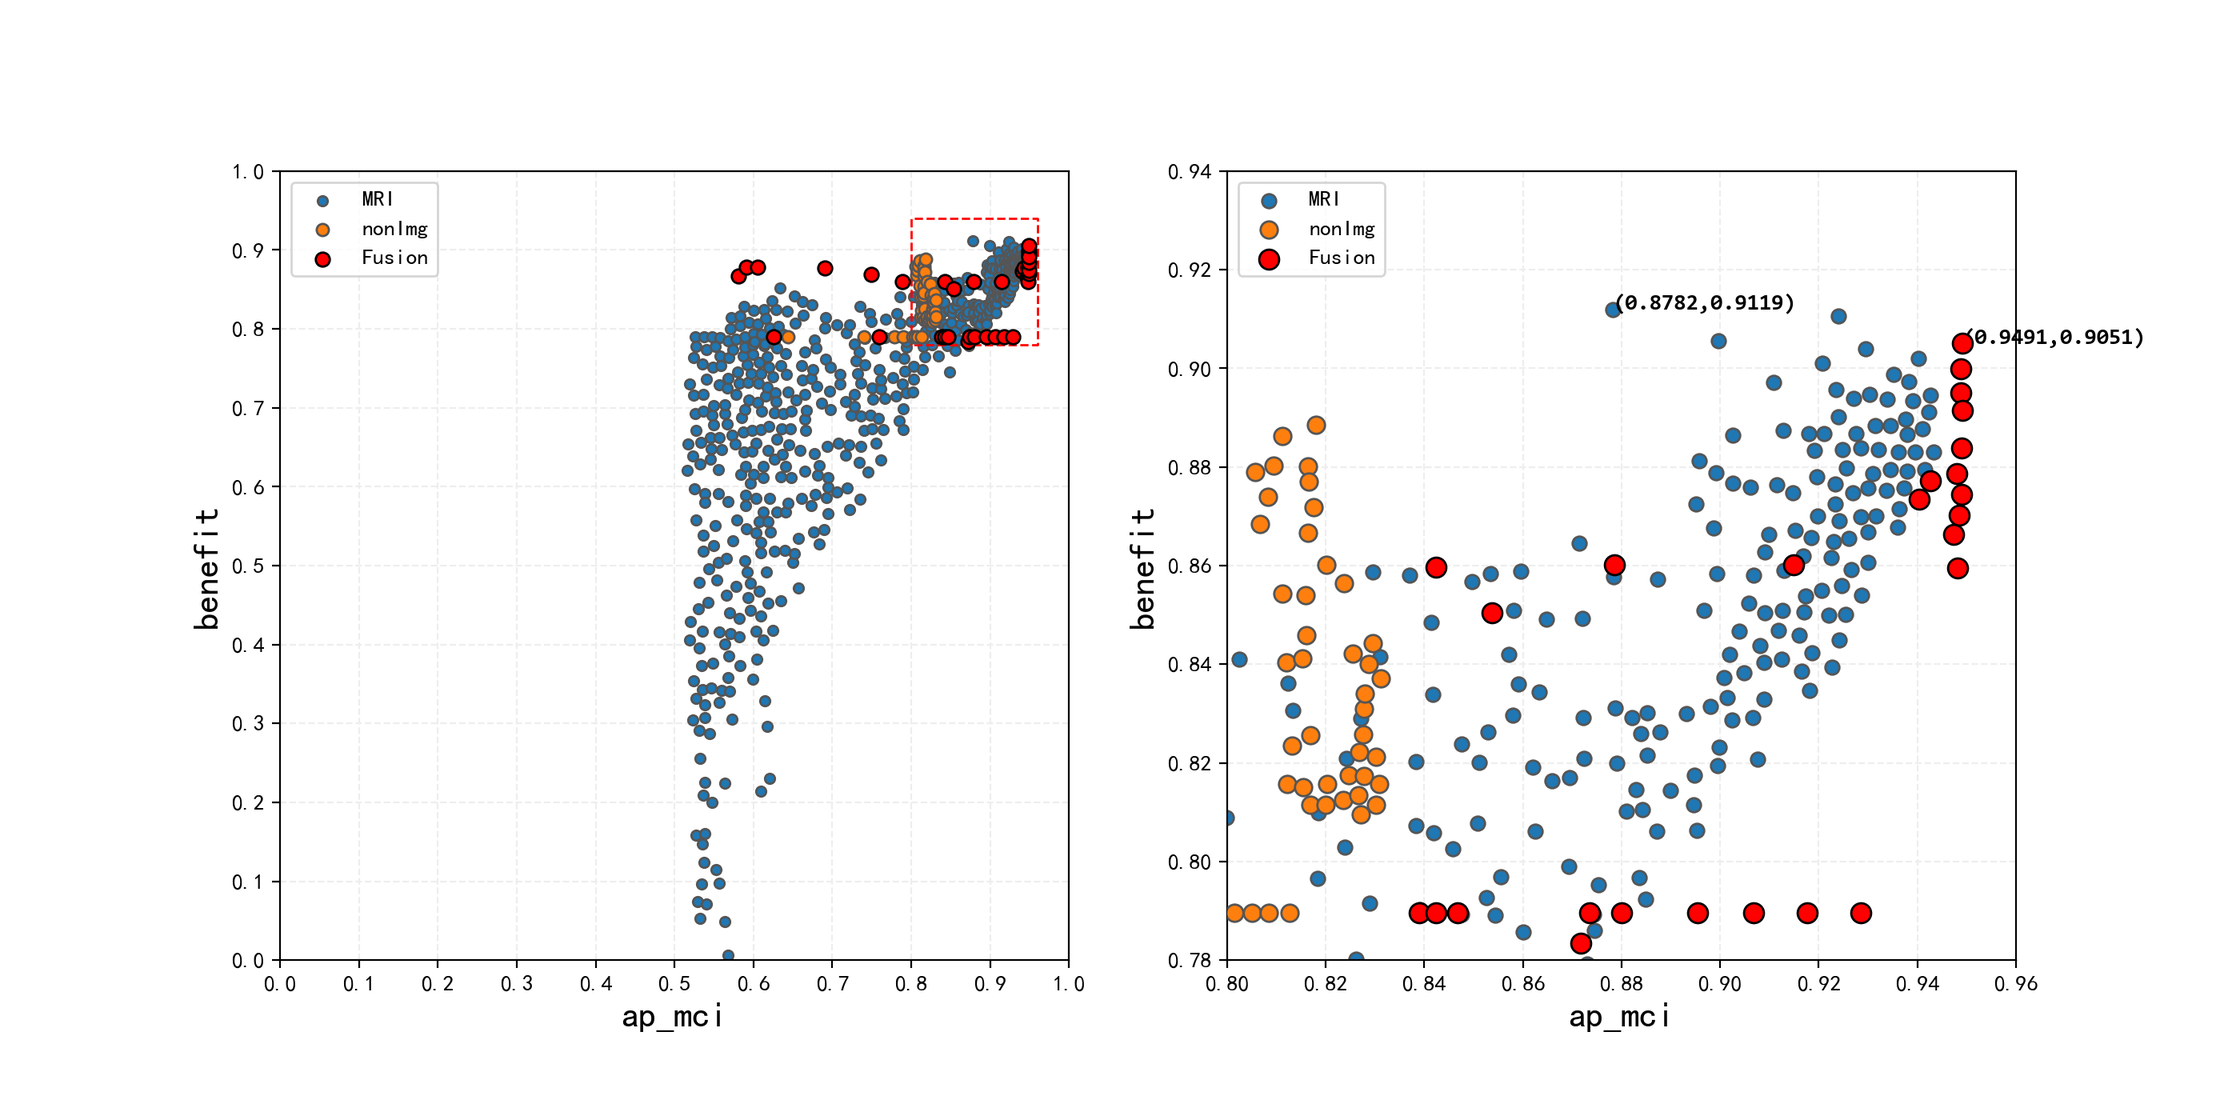
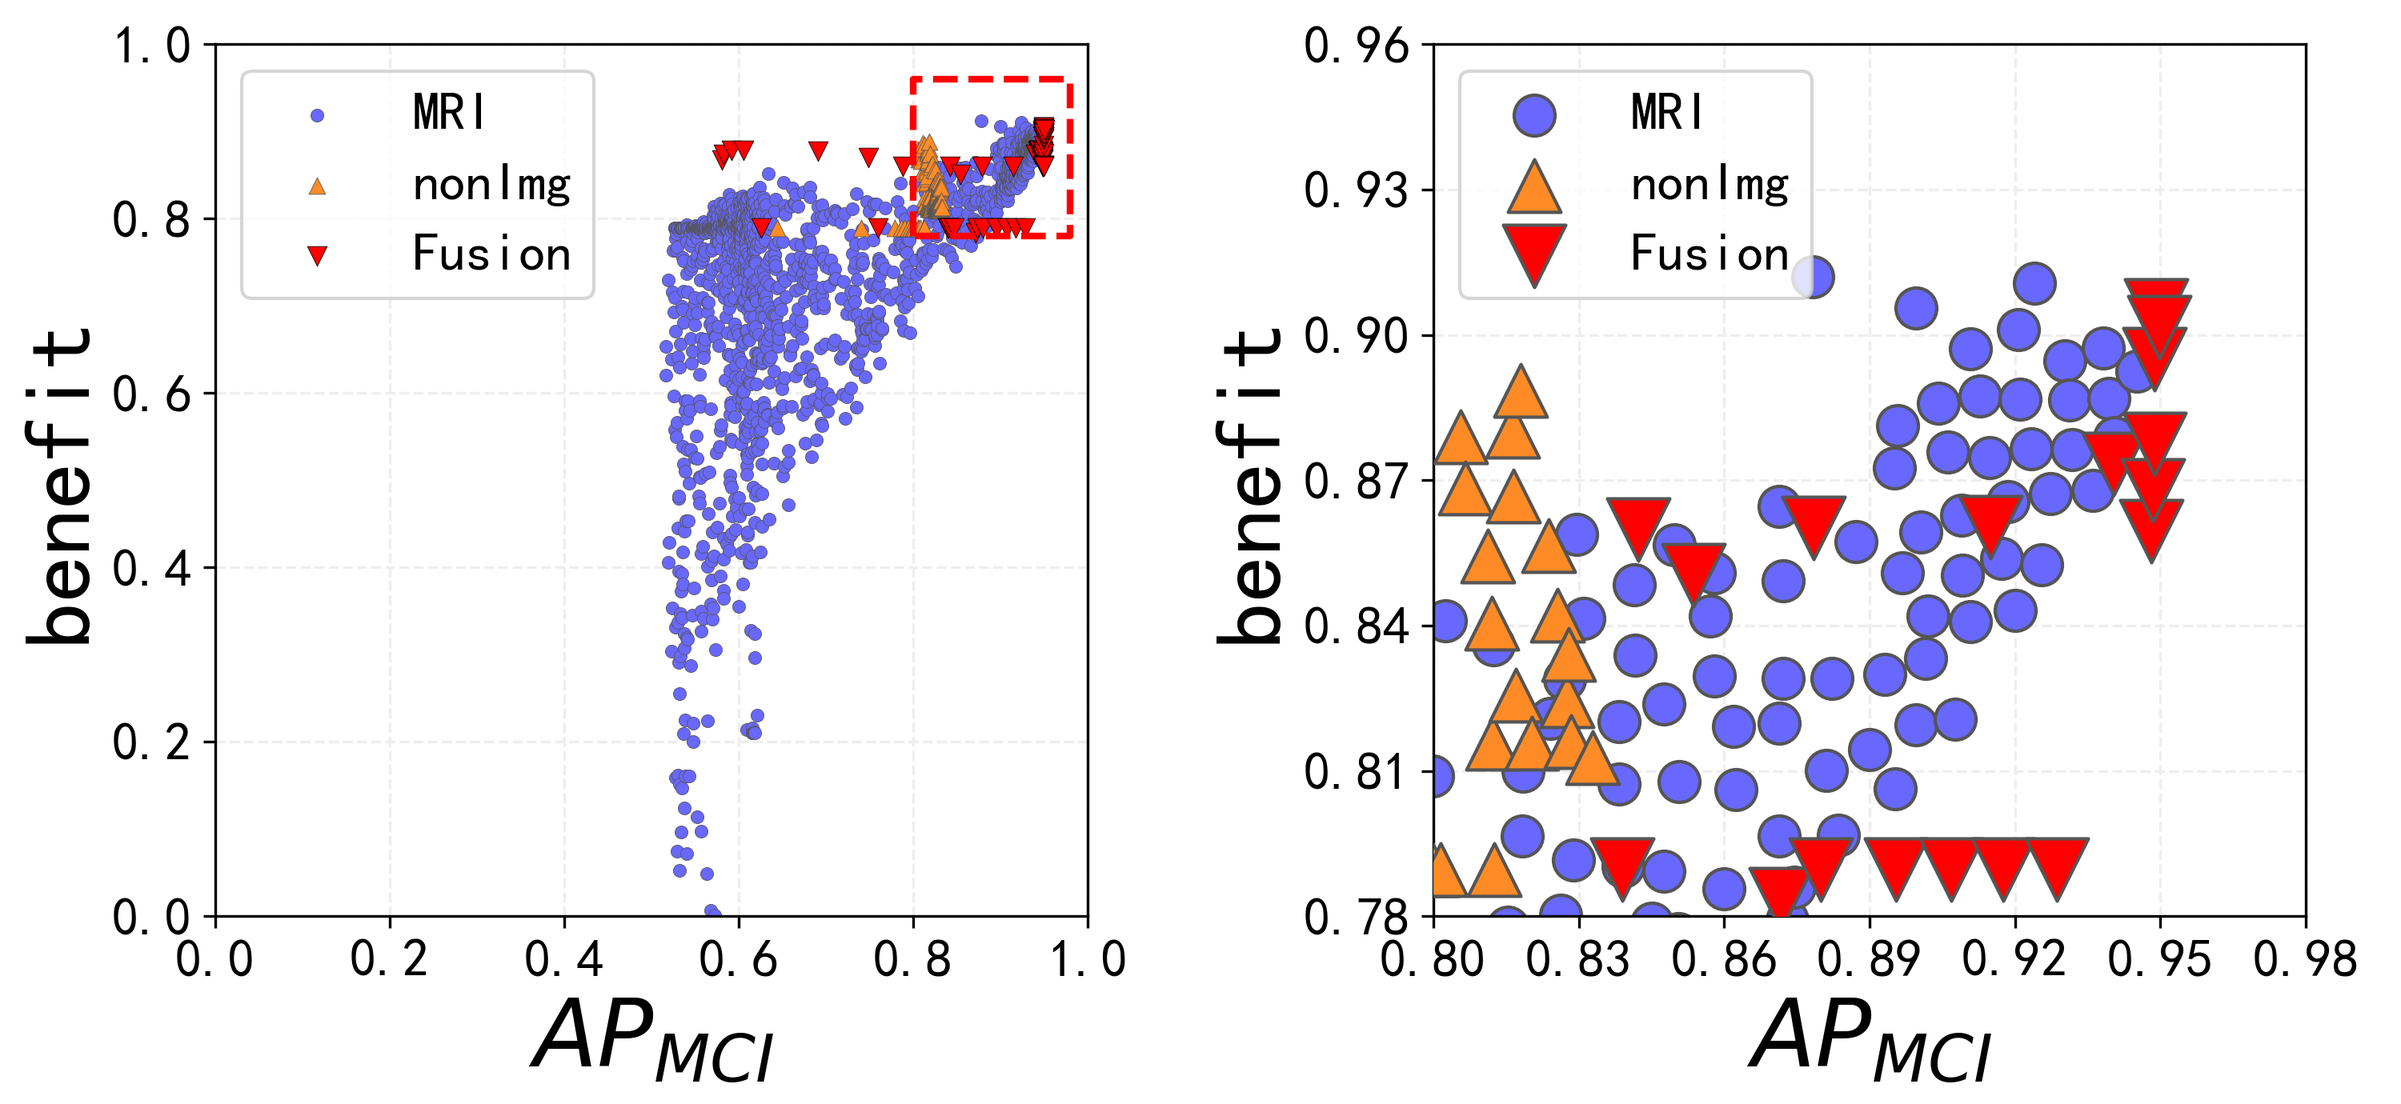
重绘散点图

diff --git a/model_eval/draw_graph.py b/model_eval/draw_graph.py
@@ -7,7 +7,8 @@ import pdb
 import numpy as np
 import pandas as pd
 import matplotlib.pyplot as plt
-from matplotlib.legend_handler import HandlerPathCollection
+from copy import deepcopy
+from collections import OrderedDict
 from PIL import Image
 
 now_path = os.path.dirname(__file__)
@@ -70,6 +71,11 @@ class DrawScatter(object):
                               越高被剔除的点越多
         :return: pd.DataFrame。处理完毕的数据
         """
+        # 令横坐标最大和纵坐标最大的点不在可排除范围内
+        best_x = data.iloc[data['var'].values.argmax(), 0]
+        best_y = data.iloc[data['benefit'].values.argmax(), 1]
+
+        # 搜索距离近的点删除
         i = 0
         while i < data.shape[0] - 1:
             if not (x[0] <= data.iloc[i, 0] <= x[1] and y[0] <= data.iloc[i, 1] <= y[1]):
@@ -78,7 +84,8 @@ class DrawScatter(object):
             j = i + 1
             while j < data.shape[0] and x[0] <= data.iloc[j, 0] <= x[1] and\
                     abs(data.iloc[j, 0] - data.iloc[i, 0]) <= x_thre:
-                if y[0] <= data.iloc[j, 1] <= y[1] and abs(data.iloc[j, 1] - data.iloc[i, 1]) <= y_thre:
+                if y[0] <= data.iloc[j, 1] <= y[1] and abs(data.iloc[j, 1] - data.iloc[i, 1]) <= y_thre and\
+                        data.iloc[j, 0] != best_x and data.iloc[j, 1] != best_y:
                     data = data.drop(data.index[j], axis=0)
                 else:
                     j = j + 1
@@ -107,7 +114,7 @@ class DrawScatter(object):
         """
         绘制完整的散点图
 
-        :param ax: 子图对象。需要通过实例方法generate_figure获取，默认为None
+        :param ax: 子图对象。默认为None
         :param xlabel: str. x轴的标签，默认为None，意为使用变量名作为x轴的标签
         :param adjust_padding: dict. 调整画布与图片边距的字典，例：{'left': 0.1, 'top': 0.9}。
                                默认为None，若为None则不调整边距
@@ -116,28 +123,25 @@ class DrawScatter(object):
         if xlabel is None:
             xlabel = self.var_name
         plt.scatter(
-            self.data['MRI'][:, 0], self.data['MRI'][:, 1], marker='o',
-            s=60, lw=1, ec='#555555', label='MRI', zorder=2
+            self.data['MRI'][:, 0], self.data['MRI'][:, 1], marker='o', c='#6868ff',
+            s=15, lw=0.2, ec='#555555', label='MRI', zorder=2
         )
         plt.scatter(
-            self.data['nonImg'][:, 0], self.data['nonImg'][:, 1], marker='^',
-            s=100, lw=1, ec='#555555', label='nonImg', zorder=4
+            self.data['nonImg'][:, 0], self.data['nonImg'][:, 1], marker='^', c='#ff8b26',
+            s=25, lw=0.2, ec='#555555', label='nonImg', zorder=4
         )
         plt.scatter(
-            self.data['Fusion'][:, 0], self.data['Fusion'][:, 1], marker='v',
-            s=140, lw=1, c='red', ec='black', label='Fusion', zorder=6
+            self.data['Fusion'][:, 0], self.data['Fusion'][:, 1], marker='v', c='#ff0000',
+            s=35, lw=0.2, ec='black', label='Fusion', zorder=6
         )
         plt.xlim(0, 1)
         plt.ylim(0, 1)
-        ticks = []
-        for i in range(1, 11, 2):
-            tick = round(0.1 * i, 1)
-            ticks.append(tick)
-        plt.xticks(ticks, fontsize=20)
-        plt.yticks(ticks, fontsize=20)
+        ticks = [0.0, 0.2, 0.4, 0.6, 0.8, 1.0]
+        plt.xticks(ticks, fontsize=16)
+        plt.yticks(ticks, fontsize=16)
         plt.xlabel(xlabel, fontsize=28)
         plt.ylabel('benefit', fontsize=28)
-        plt.legend(fontsize=20)
+        plt.legend(fontsize=16)
         plt.grid(True, c='#eeeeee', ls='--', zorder=0)
         if adjust_padding is not None:
             plt.subplots_adjust(**adjust_padding)
@@ -233,6 +237,21 @@ class DrawScatter(object):
             filter_data = self.filter_section(data, x_thre=thre, y_thre=thre)
             self.data[model_name] = filter_data.values
 
+    def filter_magnify_scatter(self, thre=0.005):
+        """
+        仅剔除放大的图中的散点，使得图中的散点不那么密集
+
+
+        :param thre: float. 默认为0.005。判断散点是否密集的阈值，越高被剔除的点越多
+        :return: None
+        """
+        magnify_x = self.get_magnify_x()
+        magnify_y = self.get_magnify_y()
+        for model_name, data in self.data.items():
+            data = pd.DataFrame(data, columns=['var', 'benefit'])
+            filter_data = self.filter_section(data, x=magnify_x, y=magnify_y, x_thre=thre, y_thre=thre)
+            self.data[model_name] = filter_data.values
+
     def filter_four_section_scatter(self, thre1=0.01, thre2=0.005):
         """
         将散点图分成4个区域：1个区域放大，3个区域不放大，使用不同的阈值剔除两种区域
@@ -288,18 +307,24 @@ class DrawScatter(object):
         plt.plot(
             [magnify_x[0], magnify_x[0], magnify_x[1], magnify_x[1], magnify_x[0]],
             [magnify_y[0], magnify_y[1], magnify_y[1], magnify_y[0], magnify_y[0]],
-            c='red', ls='--', lw=2
+            c='red', ls='--', lw=2, zorder=14
         )
 
-    def draw_magnify_scatter(self, ax=None, legend_loc='best', xlabel=None, adjust_padding=None):
+    def draw_magnify_scatter(self, point_size=(150, 250, 350), ax=None, legend_loc='best', xlabel=None,
+                             ticks_fontsize=16, label_fontsize=28, legend_fontsize=16, adjust_padding=None,
+                             ticks_step=None):
         """
         绘制放大区域的散点图
-
-        :param ax: 子图对象。需要通过实例方法generate_figure获取，默认为None
+        :param point_size: tuple. 三个模型的散点大小，默认为(150, 250, 350)
+        :param ax: 子图对象。默认为None
         :param legend_loc: str. 指定图例的位置，默认值为'best'。例如：'left upper'
         :param xlabel: str. 图的x轴标签，默认为None，使用变量名。可使用LaTeX语法，如：$x^2$
+        :param ticks_fontsize: int. 坐标轴刻度字号
+        :param label_fontsize: int. 坐标轴标签字号
+        :param legend_fontsize: int. 图例字号
         :param adjust_padding: dict. 调整画布与图片边距的字典，例：{'left': 0.1, 'top': 0.9}。
                                默认为None，若为None则不调整边距
+        :param ticks_step: float. x轴和y轴的刻度步长
         :return: None
         """
         # 获取被放大的区域的坐标，并检查被放大的区域是否是正方形
@@ -315,36 +340,41 @@ class DrawScatter(object):
             ))
 
         # 画散点
-        # ax = plt.subplot(1, 1, 1)
         plt.scatter(
             self.data['MRI'][:, 0], self.data['MRI'][:, 1], marker='o',
-            s=560, lw=2, c='#6868ff', ec='#555555', label='MRI', zorder=2
+            s=point_size[0], lw=1, c='#6868ff', ec='#555555', label='MRI', zorder=2
         )
         plt.scatter(
             self.data['nonImg'][:, 0], self.data['nonImg'][:, 1], marker='^',
-            s=600, lw=2, c='#ff8b26', ec='#555555', label='nonImg', zorder=4
+            s=point_size[1], lw=1, c='#ff8b26', ec='#555555', label='nonImg', zorder=4
         )
         plt.scatter(
             self.data['Fusion'][:, 0], self.data['Fusion'][:, 1], marker='v',
-            s=640, lw=2, c='red', ec='#555555', label='Fusion', zorder=6
+            s=point_size[2], lw=1, c='#ff0000', ec='#555555', label='Fusion', zorder=6
         )
         plt.xlim(*magnify_x)
         plt.ylim(*magnify_y)
 
         # 画x轴和y轴的刻度等
-        xticks = []
-        for i in range(0, num_xticks, 3) if num_xticks < 15 else range(0, num_xticks + 1, 4):
-            xtick = round(magnify_x[0] + 0.01 * i, 2)
-            xticks.append(xtick)
-        yticks = []
-        for i in range(0, num_yticks, 3) if num_yticks < 15 else range(0, num_yticks + 1, 4):
-            ytick = round(magnify_y[0] + 0.01 * i, 2)
-            yticks.append(ytick)
-        plt.xticks(xticks, fontsize=40)
-        plt.yticks(yticks, fontsize=40)
-        plt.xlabel(xlabel, fontsize=48)
-        plt.ylabel('benefit', fontsize=48)
-        plt.legend(loc=legend_loc, fontsize=40)
+        if ticks_step is not None:
+            xticks = list(np.arange(magnify_x[0], magnify_x[1], ticks_step))
+            yticks = list(np.arange(magnify_y[0], magnify_y[1], ticks_step))
+            xticks.append(magnify_x[1])
+            yticks.append(magnify_y[1])
+        else:
+            xticks = []
+            for i in range(0, num_xticks, 3) if num_xticks < 15 else range(0, num_xticks + 1, 4):
+                xtick = round(magnify_x[0] + 0.01 * i, 2)
+                xticks.append(xtick)
+            yticks = []
+            for i in range(0, num_yticks, 3) if num_yticks < 15 else range(0, num_yticks + 1, 4):
+                ytick = round(magnify_y[0] + 0.01 * i, 2)
+                yticks.append(ytick)
+        plt.xticks(xticks, fontsize=ticks_fontsize)
+        plt.yticks(yticks, fontsize=ticks_fontsize)
+        plt.xlabel(xlabel, fontsize=label_fontsize)
+        plt.ylabel('benefit', fontsize=label_fontsize)
+        plt.legend(loc=legend_loc, fontsize=legend_fontsize)
         plt.grid(True, c='#eeeeee', ls='--', zorder=0)
         if adjust_padding is not None:
             plt.subplots_adjust(**adjust_padding)
@@ -405,7 +435,7 @@ class DrawScatter(object):
                 xy=best_var_point,
                 xytext=best_var_point if performance_loc is None else performance_loc,
                 arrowprops={'facecolor': 'green', 'arrowstyle': 'fancy'},
-                fontsize=40,
+                fontsize=30,
                 fontfamily='Consolas',
                 zorder=12
             )
@@ -414,7 +444,7 @@ class DrawScatter(object):
                 xy=best_benefit_point,
                 xytext=best_benefit_point if benefit_loc is None else benefit_loc,
                 arrowprops={'facecolor': 'green', 'arrowstyle': 'fancy'},
-                fontsize=40,
+                fontsize=30,
                 fontfamily='Consolas',
                 zorder=12
             )
@@ -512,47 +542,72 @@ def draw_all_test_scatter():
     }
     scatter_save_path = os.path.join(root_path, 'model_eval/eval_result/images/all_test_set/scatter')
 
-    # 确定放大的图的范围
-    draw_scatter_config = {
-        #'sensitivity': ('$sensitivity$', (0.66, 0.87), (0.79, 1.0), 'upper left', (0.74, 0.96), (0.74, 0.96)),
-        #'specificity': ('$specificity$', (0.81, 0.95), (0.8, 0.94), 'upper left', (0.85, 0.895), (0.85, 0.925)),
-        #'accuracy': ('$accuracy$', (0.72, 0.9), (0.8, 0.98), 'upper left', (0.83, 0.96), (0.78, 0.92)),
-        #'auc_nc': ('$AUC_{NC}$', (0.86, 1.0), (0.8, 0.94), 'upper left', (0.952, 0.96), (0.921, 0.93)),
-        'auc_mci': ('$AUC_{MCI}$', (0.79, 0.95), (0.78, 0.98), 'upper left', (0.885, 0.96), (0.845, 0.928)),
-        #'auc_de': ('$AUC_{DE}$', (0.86, 1.0), (0.78, 0.92), 'upper left', (0.907, 0.895), (0.91, 0.925)),
-        #'ap_nc': ('$AP_{NC}$', (0.79, 0.93), (0.78, 0.92), 'upper left', (0.87, 0.96), (0.84, 0.93)),
-        'ap_mci': ('$AP_{MCI}$', (0.8, 0.96), (0.78, 1.0), 'upper left', (0.895, 0.98), (0.855, 0.95)),
-        #'ap_de': ('$AP_{DE}$', (0.78, 0.92), (0.78, 0.92), 'upper left', (0.86, 0.98), (0.83, 0.95))
-    }
+    # 图的配置
+    full_figure_config = OrderedDict({
+        'sensitivity': ('$sensitivity$', (0.67, 0.87), (0.79, 0.99), 'upper left', (0.74, 0.96), (0.74, 0.96), 0.04),
+        'specificity': ('$specificity$', (0.79, 0.94), (0.78, 0.93), 'upper left', (0.85, 0.895), (0.85, 0.925), 0.03),
+        'accuracy': ('$accuracy$', (0.72, 0.9), (0.8, 0.98), 'upper left', (0.83, 0.96), (0.78, 0.92), 0.03),
+        'auc_nc': ('$AUC_{NC}$', (0.84, 1), (0.8, 0.96), 'upper left', (0.952, 0.96), (0.921, 0.93), 0.04),
+        'auc_mci': ('$AUC_{MCI}$', (0.77, 0.95), (0.78, 0.96), 'upper left', (0.885, 0.96), (0.845, 0.928), 0.03),
+        'auc_de': ('$AUC_{DE}$', (0.84, 1.0), (0.78, 0.94), 'upper left', (0.907, 0.895), (0.91, 0.925), 0.04),
+        'ap_nc': ('$AP_{NC}$', (0.78, 0.96), (0.78, 0.96), 'upper left', (0.87, 0.96), (0.84, 0.93), 0.03),
+        'ap_mci': ('$AP_{MCI}$', (0.8, 0.98), (0.78, 0.96), 'upper left', (0.895, 0.925), (0.855, 0.945), 0.03),
+        'ap_de': ('$AP_{DE}$', (0.77, 0.95), (0.78, 0.96), 'upper left', (0.875, 0.925), (0.815, 0.942), 0.03)
+    })
+    magnify_figure_config = OrderedDict({
+        'sensitivity': ('$sensitivity$', (0.67, 0.87), (0.79, 0.99), 'upper left', (0.74, 0.96), (0.74, 0.96), 0.04),
+        'specificity': ('$specificity$', (0.79, 0.94), (0.78, 0.93), 'upper left', (0.83, 0.89), (0.83, 0.915), 0.03),
+        'accuracy': ('$accuracy$', (0.72, 0.9), (0.8, 0.98), 'upper left', (0.82, 0.96), (0.77, 0.92), 0.03),
+        'auc_nc': ('$AUC_{NC}$', (0.84, 1), (0.8, 0.96), 'upper left', (0.93, 0.945), (0.88, 0.93), 0.04),
+        'auc_mci': ('$AUC_{MCI}$', (0.77, 0.95), (0.78, 0.96), 'upper left', (0.875, 0.945), (0.815, 0.92), 0.03),
+        'auc_de': ('$AUC_{DE}$', (0.84, 1.0), (0.78, 0.94), 'upper left', (0.89, 0.895), (0.90, 0.925), 0.04),
+        'ap_nc': ('$AP_{NC}$', (0.78, 0.96), (0.78, 0.96), 'upper left', (0.87, 0.945), (0.825, 0.925), 0.03),
+        'ap_mci': ('$AP_{MCI}$', (0.8, 0.98), (0.78, 0.96), 'upper left', (0.895, 0.925), (0.855, 0.945), 0.03),
+        'ap_de': ('$AP_{DE}$', (0.77, 0.95), (0.78, 0.96), 'upper left', (0.875, 0.925), (0.815, 0.942), 0.03)
+    })
 
-    for var_name, (
-        xlabel, magnify_x, magnify_y, legend_loc, performance_loc, benefit_loc
-    ) in draw_scatter_config.items():
+    for var_name in magnify_figure_config.keys():
         # 准备数据
         scatter_data = {}
         for model_name, data in model_data.items():
             var = data[var_name].values
             benefit = data['benefit'].values
             scatter_data[model_name] = np.vstack((var, benefit)).T
+        filter_thre = 0.008
 
-        # 画图
-        ds = DrawScatter(scatter_data, var_name)
-        # plt.figure(figsize=(13, 6.2), dpi=200)
-        # full_ax = plt.subplot(1, 2, 1)
+        # region 画全图(包括两个子图，左边完整图，右边放大图)
+        xlabel, magnify_x, magnify_y, legend_loc, perf_loc, benefit_loc, ticks_step = full_figure_config[var_name]
+        ds = DrawScatter(deepcopy(scatter_data), var_name)
+        plt.figure(figsize=(10, 4.6), dpi=300)
+        left_ax = plt.subplot(1, 2, 1)
         ds.set_magnify_x(magnify_x)
         ds.set_magnify_y(magnify_y)
-        ds.filter_four_section_scatter()
-        # ds.draw_full_scatter(ax=full_ax, xlabel=xlabel, adjust_padding={'left': 0.08, 'bottom': 0.14, 'top': 0.97})
-        # ds.draw_magnify_border()
-        #  ds.show(show=False, save_path=os.path.join(scatter_save_path, '{}_scatter'.format(var_name)))
+        ds.draw_full_scatter(ax=left_ax, xlabel=xlabel, adjust_padding={
+            'left': 0.06, 'bottom': 0.17, 'top': 0.96})
+        ds.draw_magnify_border()
+        right_ax = plt.subplot(1, 2, 2)
+        ds.filter_magnify_scatter(filter_thre)
+        ds.draw_magnify_scatter(point_size=(150, 250, 350), ax=right_ax, legend_loc=legend_loc, xlabel=xlabel,
+                                ticks_fontsize=16, label_fontsize=28, legend_fontsize=16,
+                                ticks_step=ticks_step, adjust_padding={'right': 0.99, 'bottom': 0.17, 'top': 0.96})
+        # ds.set_text(True, perf_loc, benefit_loc)
+        ds.show(show=False, save_path=os.path.join(scatter_save_path, '{}_scatter.png'.format(var_name)))
+        # endregion
 
-        plt.figure(figsize=(14.4, 7), dpi=200)
-        # magnify_ax = plt.subplot(1, 2, 2)
-        ds.draw_magnify_scatter(legend_loc=legend_loc, xlabel=xlabel, adjust_padding={
-            'left': 0.13, 'bottom': 0.18, 'top': 0.95, 'right': 0.95
-        })
-        ds.set_text(True, performance_loc, benefit_loc)
-        ds.show(show=False, save_path=os.path.join(scatter_save_path, '{}_magnify_scatter'.format(var_name)))
+        # region 画放大图(一个长宽比例接近2:1的放大图)
+        xlabel, magnify_x, magnify_y, legend_loc, perf_loc, benefit_loc, ticks_step = magnify_figure_config[var_name]
+        ds = DrawScatter(deepcopy(scatter_data), var_name)
+        plt.figure(figsize=(10, 5), dpi=300)
+        ds.set_magnify_x(magnify_x)
+        ds.set_magnify_y(magnify_y)
+        ds.filter_magnify_scatter(filter_thre)
+        ds.draw_magnify_scatter(point_size=(250, 350, 450), legend_loc=legend_loc, xlabel=xlabel, ticks_step=ticks_step,
+                                ticks_fontsize=20, label_fontsize=34, legend_fontsize=20,
+                                adjust_padding={'left': 0.12, 'right': 0.96, 'bottom': 0.18, 'top': 0.96})
+        ds.set_text(True, perf_loc, benefit_loc)
+        # ds.show(show=False, save_path='C:/Users/330c-001/Desktop/tmp.png')
+        ds.show(show=False, save_path=os.path.join(scatter_save_path, '{}_magnify_scatter.png'.format(var_name)))
+        # endregion
 
 
 def draw_all_test_heatmap():
@@ -637,17 +692,11 @@ def crop_batch_image(src_path, dst_path, box, img_extension=('png', 'jpg')):
 
 
 if __name__ == '__main__':
-    # crop_batch_image(
-    #     src_path=os.path.join(root_path, 'model_eval/eval_result/images/all_test_set/scatter'),
-    #     dst_path=os.path.join(root_path, 'model_eval/eval_result/images/all_test_set/scatter/small'),
-    #     box=(232, 195, '-0', -100),
-    #     img_extension=('png', )
-    # )
-    # crop_batch_image(
-    #     src_path=os.path.join(root_path, 'model_eval/eval_result/images/all_test_set/heatmap'),
-    #     dst_path=os.path.join(root_path, 'model_eval/eval_result/images/all_test_set/heatmap/small'),
-    #     box=(74, 88, -24, -83),
-    #     img_extension=('png', )
-    # )
-    # draw_all_test_heatmap()
+    """
+    检查散点图：
+    1.箭头与文本的位置是否合适
+    2.坐标轴刻度是否均匀、两端有刻度、合理
+    3.图例位置是否遮挡散点
+    4.画布的四个边是否贴近图片边缘
+    """
     draw_all_test_scatter()

diff --git a/data_preprocess_20221225/data_preprocess_20221228.py b/data_preprocess_20221225/data_preprocess_20221228.py
@@ -226,7 +226,8 @@ class ConcatDatasetPreprocess(Preprocess):
         data.insert(2, 'months', months)
 
         # 排序
-        data = data.sort_values(['RID', 'months'])
+        data = data.sort_values([''
+                                 'RID', 'months'])
         data.index = range(data.shape[0])
 
         # 计算benefit
